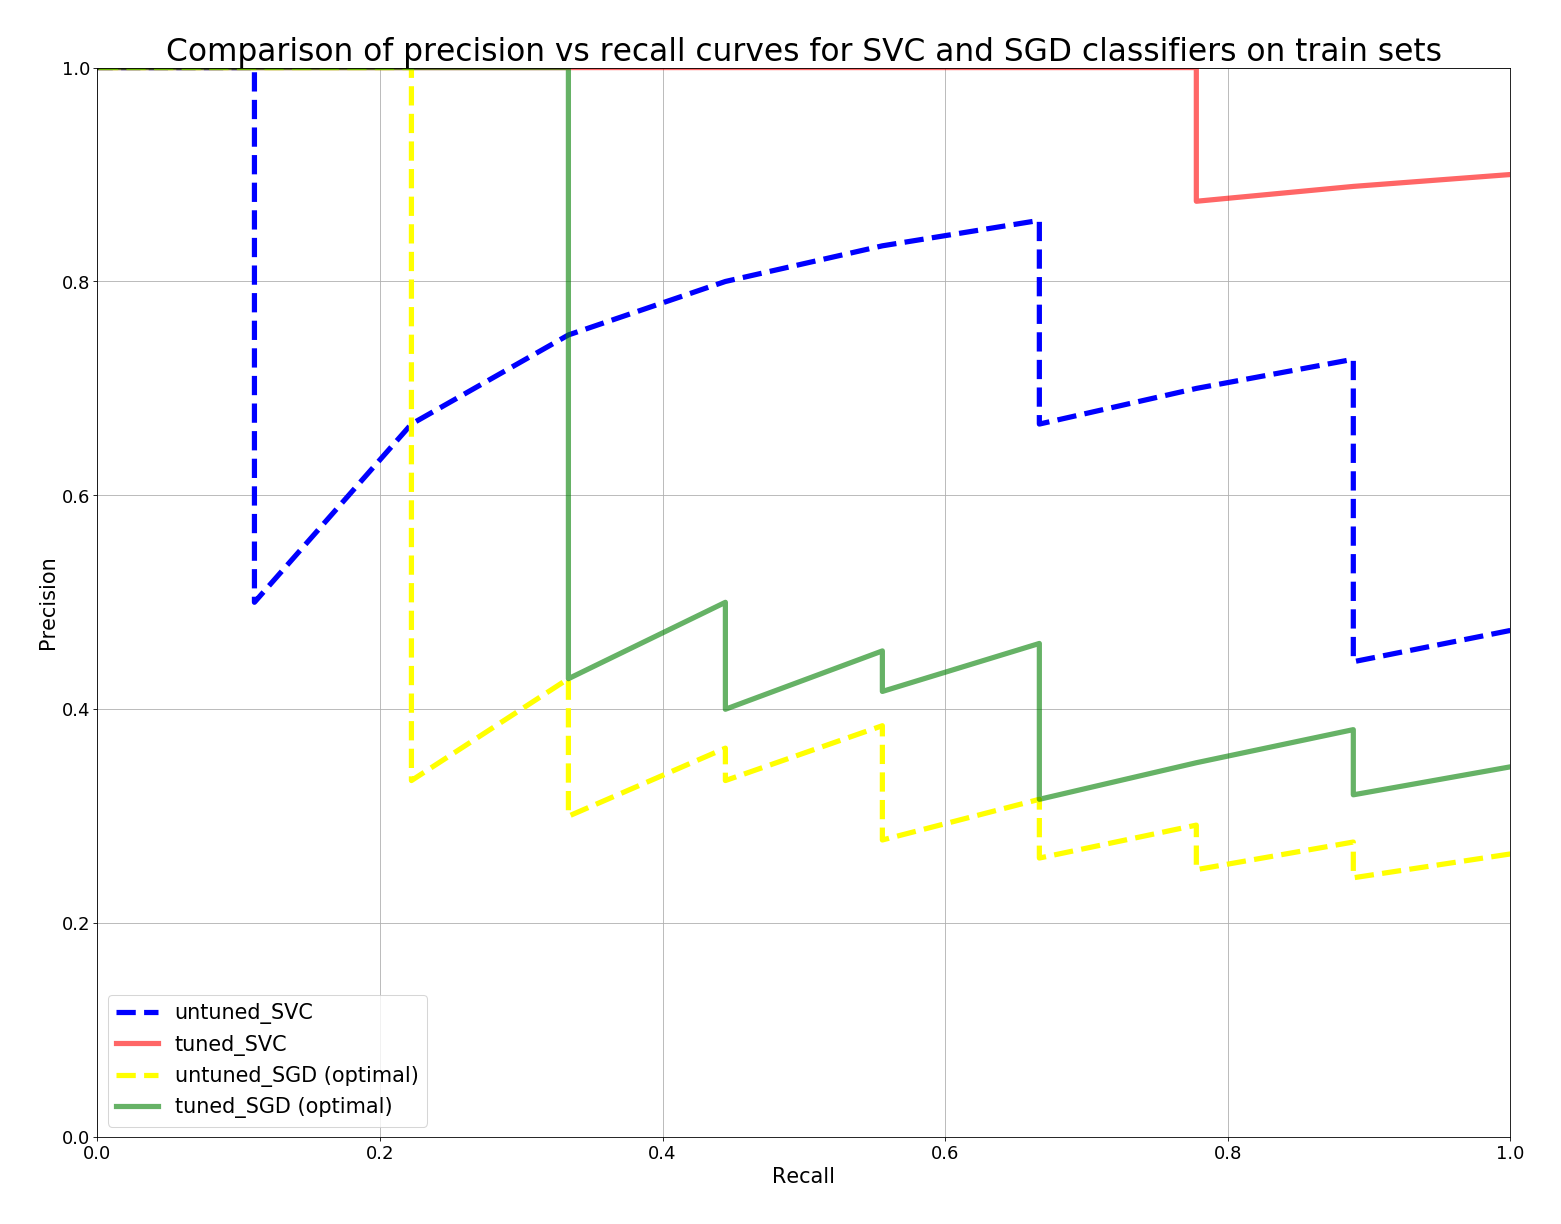
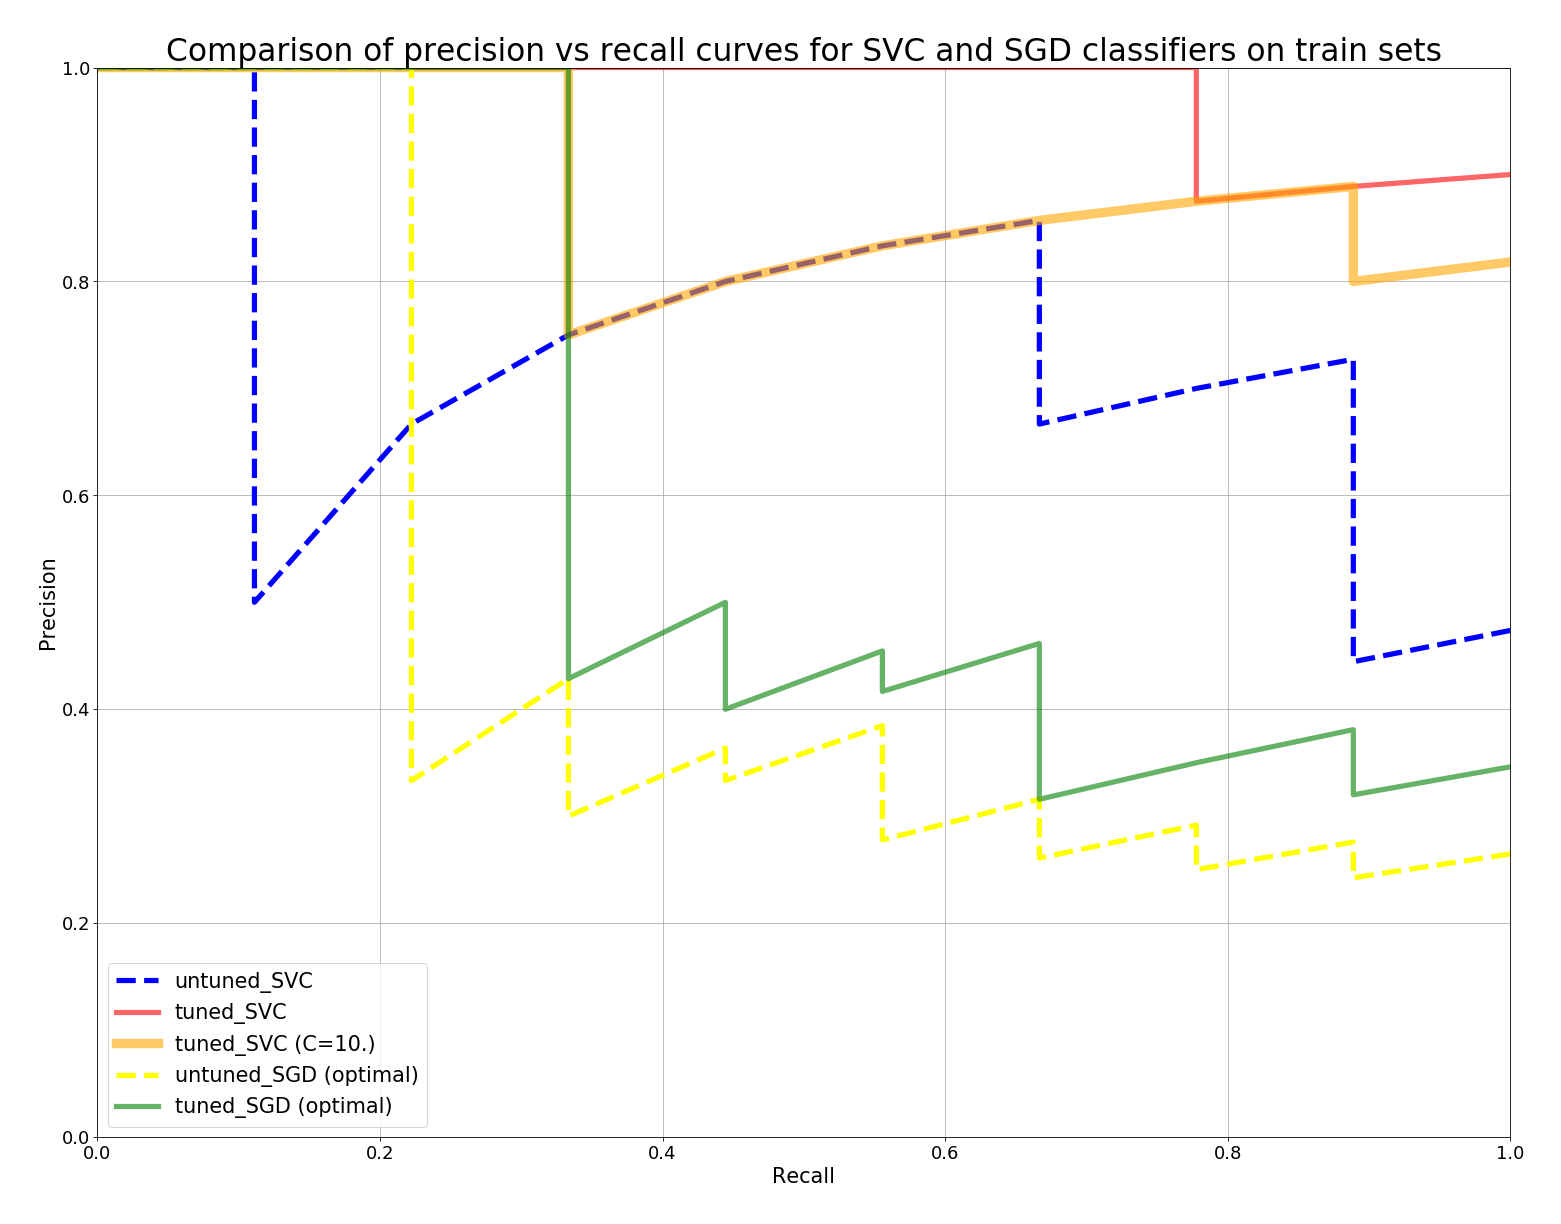
Finalize Validation Chapter

diff --git a/scripts/poi_id.py b/scripts/poi_id.py
@@ -279,7 +279,7 @@ plt.clf()
 y_scores = cross_val_predict(SVC_lin, X_train_44[:,RFECV_.support_], y_train, cv=6, method='decision_function')
 print roc_auc_score(y_train, y_scores), "ROC AUC for best SVC features"
 precision, recall, proba = precision_recall_curve(y_train, y_scores)
-helper.plt_precision_vs_recall(precision, recall, title='SVC RFECV best features (untuned)', label='untuned_SVC', color='blue', linestyle='--')
+helper.plt_precision_vs_recall(precision, recall, title='SVC RFECV best features (untuned)', label='untuned_SVC', color='blue', linestyle='--', linewidth=5.)
 
 # Create feature set for SVC model
 X_train_44_SVC = RFECV_.transform(X_train_44)
@@ -294,10 +294,10 @@ SVC_clf = svm.SVC()
 # Random search to find best set of features
 param_distributions = {
             'kernel': ['linear', 'rbf'],
-            'C': stats.halfnorm(0.1, 10000),
+            'C': stats.uniform(1, 250000.),
             'gamma': stats.expon(scale=1.0),
         }
-SVC_RandSearch = RandomizedSearchCV(SVC_clf, param_distributions, cv=6, n_iter=5000, scoring='roc_auc', iid=False, verbose=1, n_jobs=8, random_state=77)
+SVC_RandSearch = RandomizedSearchCV(SVC_clf, param_distributions, cv=6, n_iter=5000, scoring='roc_auc', iid=False, verbose=1, n_jobs=4, random_state=77)
 print
 print "Randomizes Search for best hyperparameters for the SVC model"
 SVC_RandSearch.fit(X_train_44_SVC, y_train)
@@ -307,17 +307,26 @@ print
 print "Best parameters for SVC model:"
 print SVC_RandSearch.best_params_
 
+
 y_scores = cross_val_predict(SVC_clf, X_train_44_SVC, y_train, cv=6, method='decision_function')
 print roc_auc_score(y_train, y_scores), "ROC AUC curve for tuned SVM classifier"
 precision, recall, proba = precision_recall_curve(y_train, y_scores)
-helper.plt_precision_vs_recall(precision, recall, title='ROC AUC curve for tuned SVM classifier', label='tuned_SVC', color='red', alpha=0.6)
+helper.plt_precision_vs_recall(precision, recall, title='ROC AUC curve for tuned SVM classifier', label='tuned_SVC', color='red', alpha=0.6, linewidth=5.)
+
+# Reduce overfitting
+SVC_clf.set_params(C=10.)
+SVC_clf.set_params(gamma=0.055)
+
+y_scores = cross_val_predict(SVC_clf, X_train_44_SVC, y_train, cv=6, method='decision_function')
+print roc_auc_score(y_train, y_scores), "ROC AUC curve for tuned SVM classifier (C=10.)"
+precision, recall, proba = precision_recall_curve(y_train, y_scores)
+helper.plt_precision_vs_recall(precision, recall, title='ROC AUC curve for tuned SVM classifier', label='tuned_SVC (C=10.)', color='orange', alpha=0.6, linewidth=9.)
 
 # print SVC feature scores
 score_table = pd.DataFrame(zip(X_train_44_df.columns.to_list(), RFECV_.ranking_))
 print "RFECV ranking of features for SVC model"
 print score_table.sort_values(1, ascending=True)
 print
-
 
 
 # 2. Try: Stochastic Gradient Descent classifier
@@ -333,7 +342,7 @@ print "Randomizes Search for best hyperparameters for the SGD models"
 
 Results = {}
 learning_rate = ['optimal', 'constant', 'invscaling', 'adaptive'] 
-learning_rate = ['optimal']   # delete this line to run parameter search for all different learning_rate options
+# learning_rate = ['optimal']   # delete this line to run parameter search for all different learning_rate options
 
 for lr in learning_rate:
     if lr == 'optimal':
@@ -414,13 +423,13 @@ print
 y_scores = cross_val_predict(SGDClassifier(random_state=77, loss='hinge', learning_rate='optimal'), X_train_44_SGD, y_train, cv=6, method='decision_function')
 print roc_auc_score(y_train, y_scores), "ROC AUC curve for untuned SGD classifier"
 precision, recall, proba = precision_recall_curve(y_train, y_scores)
-helper.plt_precision_vs_recall(precision, recall, title='ROC AUC curve for untuned SGD classifier', label='untuned_SGD (optimal)', color='yellow', linestyle='--')
+helper.plt_precision_vs_recall(precision, recall, title='ROC AUC curve for untuned SGD classifier', label='untuned_SGD (optimal)', color='yellow', linestyle='--', linewidth=5.)
 
 # Plot tuned SGD precision vs recall curve
 y_scores = cross_val_predict(SGD_clf, X_train_44_SGD, y_train, cv=6, method='decision_function')
 print roc_auc_score(y_train, y_scores), "ROC AUC curve for tuned SGD classifier"
 precision, recall, proba = precision_recall_curve(y_train, y_scores)
-helper.plt_precision_vs_recall(precision, recall, title='Comparison of precision vs recall curves for SVC and SGD classifiers on train sets', label='tuned_SGD (optimal)', save=IMAGES+"precision_vs_recall_on_train_set.png", color='green', alpha=0.6)
+helper.plt_precision_vs_recall(precision, recall, title='Comparison of precision vs recall curves for SVC and SGD classifiers on train sets', label='tuned_SGD (optimal)', save=IMAGES+"precision_vs_recall_on_train_set.png", color='green', alpha=0.6, linewidth=5.)
 
 
 ######################
@@ -444,7 +453,7 @@ plt.clf()
 y_scores = SVC_clf.decision_function(X_test_44_SVC)
 print roc_auc_score(y_test, y_scores), "ROC AUC for SVM classifier."
 precision, recall, proba = precision_recall_curve(y_test, y_scores)
-helper.plt_precision_vs_recall(precision, recall, label='SVM classifier', color='red')
+helper.plt_precision_vs_recall(precision, recall, label='SVM classifier', color='red', linewidth=4.)
 y_predict = SVC_clf.predict(X_test_44_SVC)
 print
 print "Confusion matrix:"
@@ -458,7 +467,7 @@ print "SGD scores on test set:"
 y_scores = SGD_clf.decision_function(X_test_44_SGD)
 print roc_auc_score(y_test, y_scores), "ROC AUC for SGD classifier."
 precision, recall, proba = precision_recall_curve(y_test, y_scores)
-helper.plt_precision_vs_recall(precision, recall, label='SGD classifier', color='green', save=IMAGES+'precision_vs_recall_on_test_set.png', title='Comparison of precision vs recall curves for SVC and SGD classifiers on test set')
+helper.plt_precision_vs_recall(precision, recall, label='SGD classifier', color='green', save=IMAGES+'precision_vs_recall_on_test_set.png', title='Comparison of precision vs recall curves for SVC and SGD classifiers on test set', linewidth=4.)
 y_predict = SGD_clf.predict(X_test_44_SGD)
 print
 print "Confusion matrix:"

diff --git a/scripts/helper.py b/scripts/helper.py
@@ -161,7 +161,7 @@ def plt_precision_recall_vs_threshold(precision, recall, threshold, title=False)
     return None
 
 def plt_precision_vs_recall(precision, recall, title=False, save=False, **kwargs):
-    plt.plot(recall, precision, "b-", linewidth=5., **kwargs)
+    plt.plot(recall, precision, "b-", **kwargs)
     plt.xlabel("Recall", fontsize=20)
     plt.ylabel("Precision", fontsize=20)
     plt.axis([0, 1, 0, 1])

diff --git a/README.md b/README.md
@@ -138,40 +138,42 @@ The final AI model is a Support Vector Classifier. Support Vector Machines are s
 
 #### Selection of features
 
-For feature selection I use cross validated recursive feature elimination (RFECV) method. An estimator is required to run RFECV method, so we will come up with different sets of features for each investigated classifier. RFECV provides feature rankings. All selected features will have rank 1. The remaining features are numbered in accordance to their importance. The results of feature ranking for a Support Vector classifier (SVC) and a Stochastic Gradient Descent classifier (SGD) are shown in the table below.  
+Before we start investigating what features work best I split the data into a training and test set. The dataset is quite small and we only have 18 instances labeled as POI. Generally I would chose a test set size of about 20% to 30% of the whole data. In our case we would end up with less than 6 POIs in the test set. As I want to use the test set to validate the performance of our classifiers I decided to create a much bigger test set of 50%, knowing that this could compromise the quality/ accuracy of our models to be trained.  
+
+For feature selection I use cross validated recursive feature elimination (RFECV) method. An estimator is required to run RFECV method, so we will come up with different sets of features for each investigated classifier. RFECV provides feature rankings. All selected features have rank 1. The remaining features are numbered in accordance to their importance. The results of feature ranking for a Support Vector classifier (SVC) and a Stochastic Gradient Descent classifier (SGD) are shown in the table below.  
 
 ***Ranking of features by RFECV method***
 
-| Feature                                   | SVC rank | SGD rank |
-| ----------------------------------------- | :------: | -------- |
-| expenses                                  |    1     | 1        |
-| total_stock_value                         |    1     | 1        |
-| exercised_stock_options                   |    1     | 1        |
-| toPOI_rate                                |    1     | 1        |
-| bonus                                     |    1     | 7        |
-| exer_stock_options_deferral_payments_rate |    1     | 1        |
-| rest_stock_deferral_payments_rate         |    1     | 3        |
-| bonus_deferral_payments_rate              |    1     | 1        |
-| deferred_income                           |    1     | 1        |
-| shared_receipt_with_poi                   |    1     | 1        |
-| salary                                    |    2     | 1        |
-| exer_stock_options_total_payments_rate    |    3     | 8        |
-| other                                     |    4     | 1        |
-| deferral_payments                         |    5     | 10       |
-| long_term_incentive_total_payments_rate   |    6     | 11       |
-| restricted_stock_deferred                 |    7     | 9        |
-| long_term_incentive                       |    8     | 1        |
-| bonus_total_payments_rate                 |    9     | 1        |
-| from_this_person_to_poi                   |    10    | 5        |
-| total_payments                            |    11    | 13       |
-| restricted_stock                          |    12    | 6        |
-| from_poi_to_this_person                   |    13    | 12       |
-| fromPOI_rate                              |    14    | 2        |
-| director_fees                             |    15    | 4        |
+| Feature                                     | SVC rank | SGD rank |
+| ------------------------------------------- | :------: | -------- |
+| **salary**                                  |    1     | 7        |
+| **bonus**                                   |    1     | 1        |
+| **long_term_incentive**                     |    14    | 1        |
+| **deferred_income**                         |    1     | 1        |
+| **deferral_payments**                       |    13    | 1        |
+| **other**                                   |    1     | 1        |
+| **expenses**                                |    1     | 1        |
+| **director_fees**                           |    15    | 1        |
+| **total_payments**                          |    1     | 1        |
+| **exercised_stock_options**                 |    8     | 1        |
+| **restricted_stock**                        |    10    | 1        |
+| **restricted_stock_deferred**               |    5     | 1        |
+| **total_stock_value**                       |    12    | 1        |
+| **from_this_person_to_poi**                 |    1     | 2        |
+| from_poi_to_this_person                     |    2     | 6        |
+| **shared_receipt_with_poi**                 |    3     | 1        |
+| bonus_deferral_payments_rate                |    11    | 4        |
+| rest_stock_deferral_payments_rate           |    7     | 5        |
+| exer_stock_options_deferral_payments_rate   |    9     | 3        |
+| **long_term_incentive_total_payments_rate** |    1     | 5        |
+| **bonus_total_payments_rate**               |    4     | 1        |
+| **exer_stock_options_total_payments_rate**  |    6     | 1        |
+| **toPOI_rate**                              |    1     | 1        |
+| **fromPOI_rate**                            |    1     | 1        |
+|                                             |          |          |
+| **Total selected features**                 |    10    | 17       |
 
-For the SVM classifier the selected features are *expenses, total_stock_value, exercised_stock_options, toPOI_rate, bonus, exer_stock_options_deferral_payments_rate, rest_stock_deferral_payments_rate, bonus_deferral_payments_rate, deferred_income* and *shared_receipt_with_poi*. It is interesting that 4 out of the 10 features are newly created features.
-
-For the SGD model we have a different set of features as can be seen above. But again, 4 out of 12 features are newly created ones. 
+Bold marked features in the table above are selected for one or both classifiers. SGD and SVM classifiers have 7 features in common. For the SVM classifier 10 features are selected. 17 features are selected for the SGD classifier. 3 out of the 10 SVC features are newly created features. For the SGD classifier 4 new features are selected.
 
 
 
@@ -188,18 +190,18 @@ The following parameters are tuned:
 ```python
 `param_distributions = {`
             `'kernel': ['linear', 'rbf'],`
-            `'C': stats.uniform(0.1, 10000),`
+            `'C': stats.uniform(0.1, 250000),`
             `'gamma': stats.expon(scale=1.0),`
         }`
 ```
 
-I try a linear and *RBF* kernel. The regulation parameter C is randomly chosen between 0.1 and 10000. The last parameter is gamma for witch I use a exponential distribution function. The best parameters for the SVC model are: 
+I try a linear and *RBF* kernel. The regulation parameter C is randomly chosen between 0.1 and 250000. The last parameter is gamma for witch I use a exponential distribution function. The best parameters for the SVC model found by Randomized Search algorithm is shown in table below: 
 
 | Parameters of SVM classifier | Value       |
 | ---------------------------- | ----------- |
 | kernel                       | rbf         |
-| C                            | 1143.11...  |
-| gamma                        | 0.001136... |
+| C                            | 156880....  |
+| gamma                        | 0.045335... |
 
 #### Stochastic Gradient Descent
 
@@ -216,7 +218,7 @@ The results of the Randomized Search is shown in the table below:
 | Parameters of SGD classifier | Value      |
 | ---------------------------- | ---------- |
 | penalty                      | *l2*       |
-| alpha                        | 6.75588... |
+| alpha                        | 0.00985... |
 | learning_rate                | *optimal*  |
 
 #### Comparison of models
@@ -225,11 +227,65 @@ In order to compare the performance of the SGD and SVC model I plot the precisio
 
 ![](./images/precision_vs_recall_on_train_set.png)
 
-For the SGD model we can observe a great improvement for the tuned model (green vs yellow). For the SVM classifier (red vs blue) the improvement is not so significant. Overall, the SVC classifier seems to work slightly better on the training set as the tuned SGD model. In the next section, we'll see how the models perform on the test set.
+For the SGD model we can observe an improvement for the tuned model (green vs yellow). For the SVM classifier (red vs blue) the improvement is tremendously, leading to a ROC AUC (Area Under Curve) score of 99.6%. I manually decreased the C parameter to C=10.0 and the gamma parameter I slightly increased to gamma = 0.055. The resulting precision vs recall curve is given in the image above (orange curve). The ROC AUC is still 98.7%. Overall, the SVC classifier seems to work slightly better on the training set as the tuned SGD model. In the next section, we'll see how the models perform on the test set.
+
+
 
 ## 4. Validate and evaluate
 
+In this chapter we will validate our classifier against the test set, address the precision vs recall trade-off and perform a validation using the *tester.py* script.
 
+Validation of a model means evaluating the performance of the model on instances the model hasn't seen yet. In other words, these new instances weren't part of the training set. By evaluating the model on the test set we can estimate how our model will perform in real life. This process will also reveal if our algorithm generalizes well (makes good predictions on the test set) or if it's over-fitting the training data. In case of over-fitting the model performs extremely well on the training data but is much worse on the test data. We've already seen a case of over-fitting on the training set in the image above, where the tuned SVM classifier performs extremely well on training set resulting in a ROC AUC of more than 99%. The validation of this model I don't show but it's much worse than the one I manually adopted.
+
+To compare the performance between the SVC and SGD model I evaluate the decision function results of each model and create precision vs recall curves. These curves illustrate very well how our algorithm performs. The more the curves are located in the top and right of the diagram the better the performance.   Precision is the ratio between all True Positive (TP) predictions divided by the sum of True Positives and False Positives (FP). 
+$$
+precision = \frac{TP}{TP+FP}
+$$
+Recall, or True Positive Rate (TPR), is the ratio between True Positives and the sum of True Positives and False Negatives (FN) as shown in the formula below.
+$$
+recall = \frac{TP}{TP+FN}
+$$
+Our task is to find possible Persons of Interest (POIs) from our data set. I'd like to identify as many POIs as possible what means we need to get high recall values. The drawback of high recall values is the drop in precision as can be seen very nicely in the image above. A recall of 1 for the SGD classifier (green curve) would result in a precision value of about 0.36. On the other hand a precision of 1 would result in a low recall of about 0.34. In the image below we can see the precision vs recall curves for the tuned algorithms on the test set.
+
+![](.\images\precision_vs_recall_on_test_set.png)
+
+From the image above we can see that the SGD classifier performs better than the SVC classifier. Compared to the Precision/ Recall curves from the training set the SGD classifier performs slightly worse on the test data. The SVC model on the other hand is performing much worse on the test data than on the training set which means it's still over-fitting. The table below shows the confusion matrix in the form 
+$$
+\begin{bmatrix}  TN & FP \\  FN & TP \\ \end{bmatrix}
+$$
+and the actual recall and precision values for the test set for our two classifiers.
+
+| Metric           | SVM classifier                                        | SGD classifier                                       |
+| ---------------- | ----------------------------------------------------- | ---------------------------------------------------- |
+| Confusion Matrix | $\begin{bmatrix}  51 & 12 \\  5 & 4 \\ \end{bmatrix}$ | $\begin{bmatrix}  58 & 5 \\  4 & 5 \\ \end{bmatrix}$ |
+| Recall           | 0.44                                                  | 0.56                                                 |
+| Precision        | 0.25                                                  | 0.50                                                 |
+
+I'm not so much content with the actual predictions as this result does not reflect our goal to find as many POIs as possible. In order to address this issue I coded as class called *flex_classifier* which can be used to optimize recall and precision output. I want to have a precision value >= 0.35 and a recall value of  >= 0.40 and the classifier shall optimize recall (as high as possible at given min. requirements).
+
+```python
+# Flex classifier for SGD model optimizing recall
+flex_SGD_clf = helper.flex_classifier(SGD_clf, min_precision=0.35, min_recall=0.4, maximize='recall')
+flex_SGD_clf.fit(X_train_44_SGD, y_train)
+```
+
+I use cross validation of the training set to find the best threshold to achieve this goal. The results of the flex_classifier for the SGD and SVC model are given in the table below.
+
+| Metric           | flex_SVM classifier                                   | flex_SGD classifier                                  |
+| ---------------- | ----------------------------------------------------- | ---------------------------------------------------- |
+| Confusion Matrix | $\begin{bmatrix}  50 & 13 \\  2 & 7 \\ \end{bmatrix}$ | $\begin{bmatrix}  54 & 9 \\  2 & 7 \\ \end{bmatrix}$ |
+| Recall           | 0.78                                                  | 0.78                                                 |
+| Precision        | 0.35                                                  | 0.44                                                 |
+
+Well, this looks quite promising. I would chose the SGD classifier if had to put the classifier in operation. It seems to be more robust regarding generalization and also shows better results on the test set. Let's see how the models perform using the *test_classifier* function of *tester.py*. I provide the results of *test_classifier* in the same way as done in the previous two tables.
+
+| Metric           | flex_SVM classifier                                          | flex_SGD classifier                                          |
+| ---------------- | ------------------------------------------------------------ | ------------------------------------------------------------ |
+| Confusion Matrix | $\begin{bmatrix}  10613 & 2387 \\   685 & 1315 \\ \end{bmatrix}$ | $\begin{bmatrix}  11290 & 1710 \\  599 & 1401 \\ \end{bmatrix}$ |
+| Recall           | 0.66                                                         | 0.70                                                         |
+| Precision        | 0.36                                                         | 0.45                                                         |
+
+The validation using *test_classifier* function works quite well and the results are comparable to the performance on the test set. I actually expected the test set performance being worse than *test_classifier* as this validation uses not only the test data but also instances we've used to train the models. Further results are discussed in the next chapter  
 
 
 
@@ -240,6 +296,10 @@ Importance of size of test set.
 
 
    
+
+
+
+receiver operating characteristic (ROC) 
 
 
 
